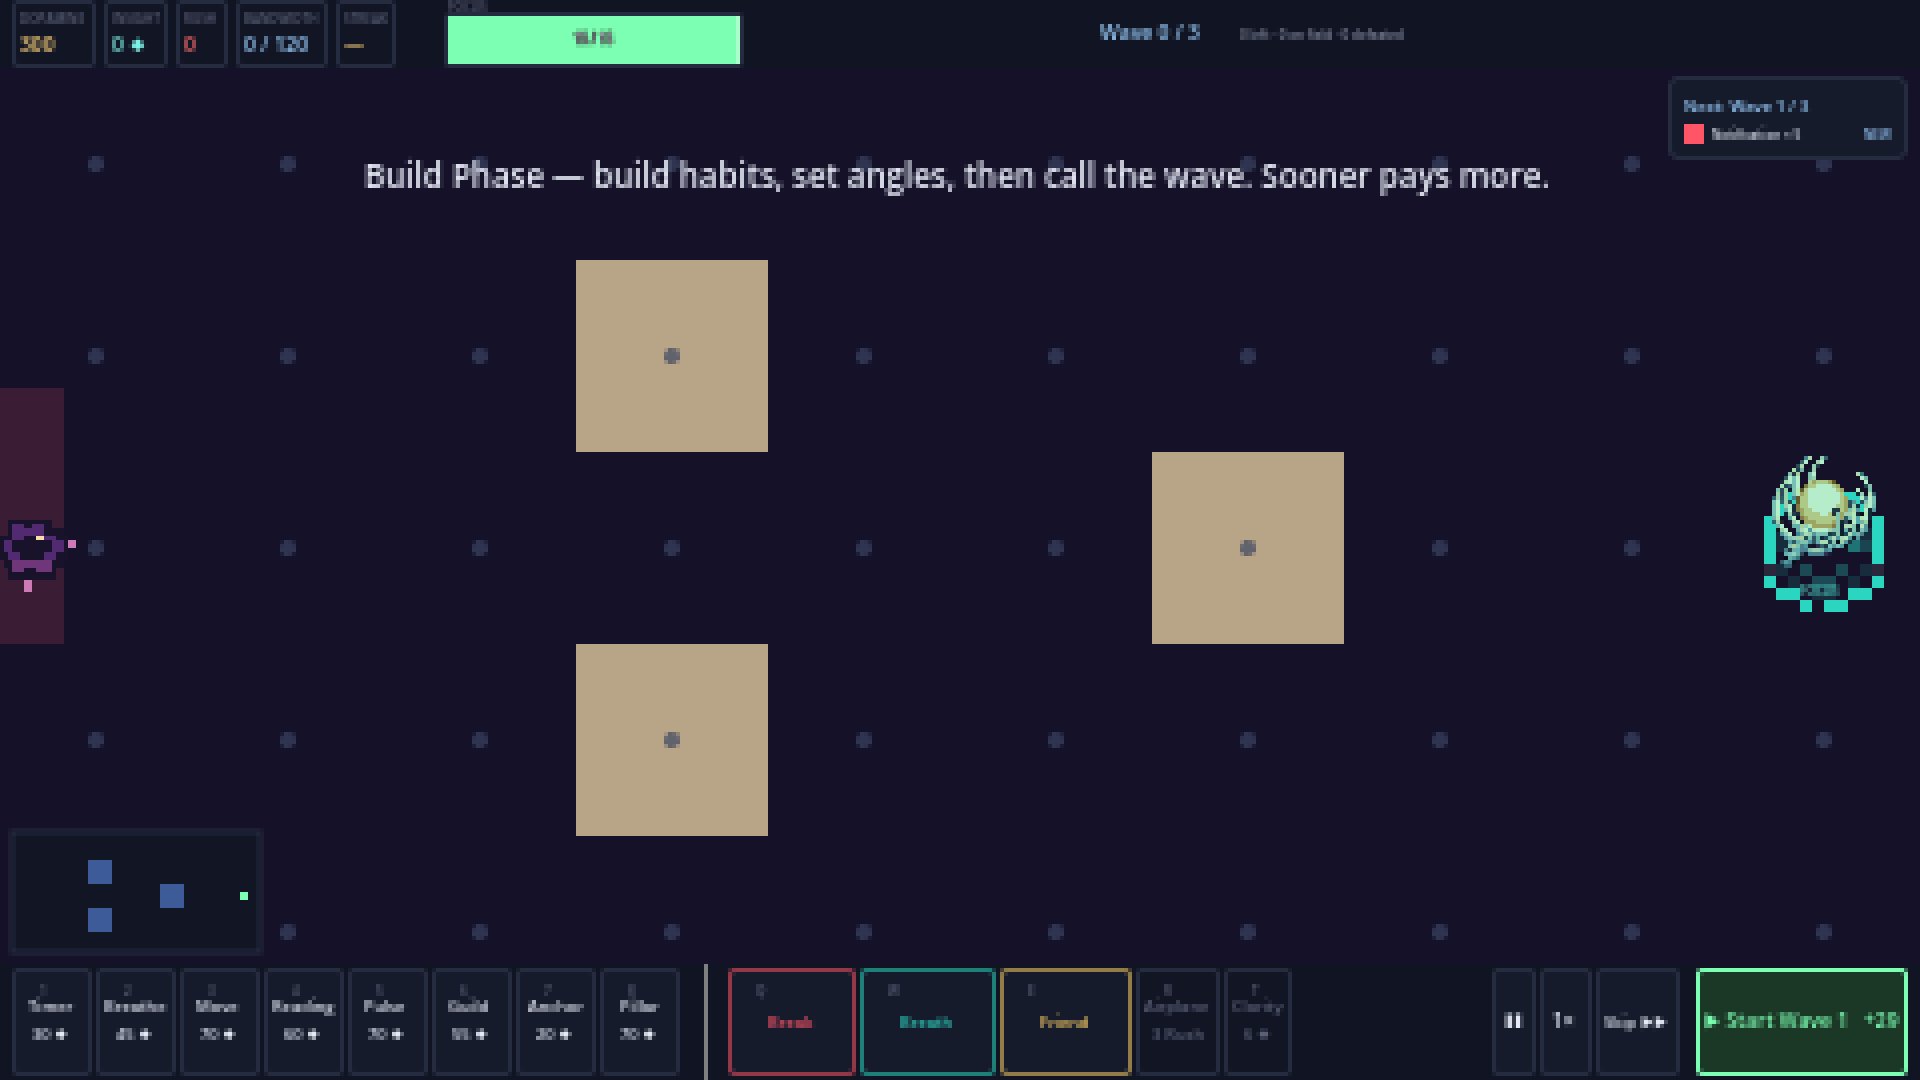
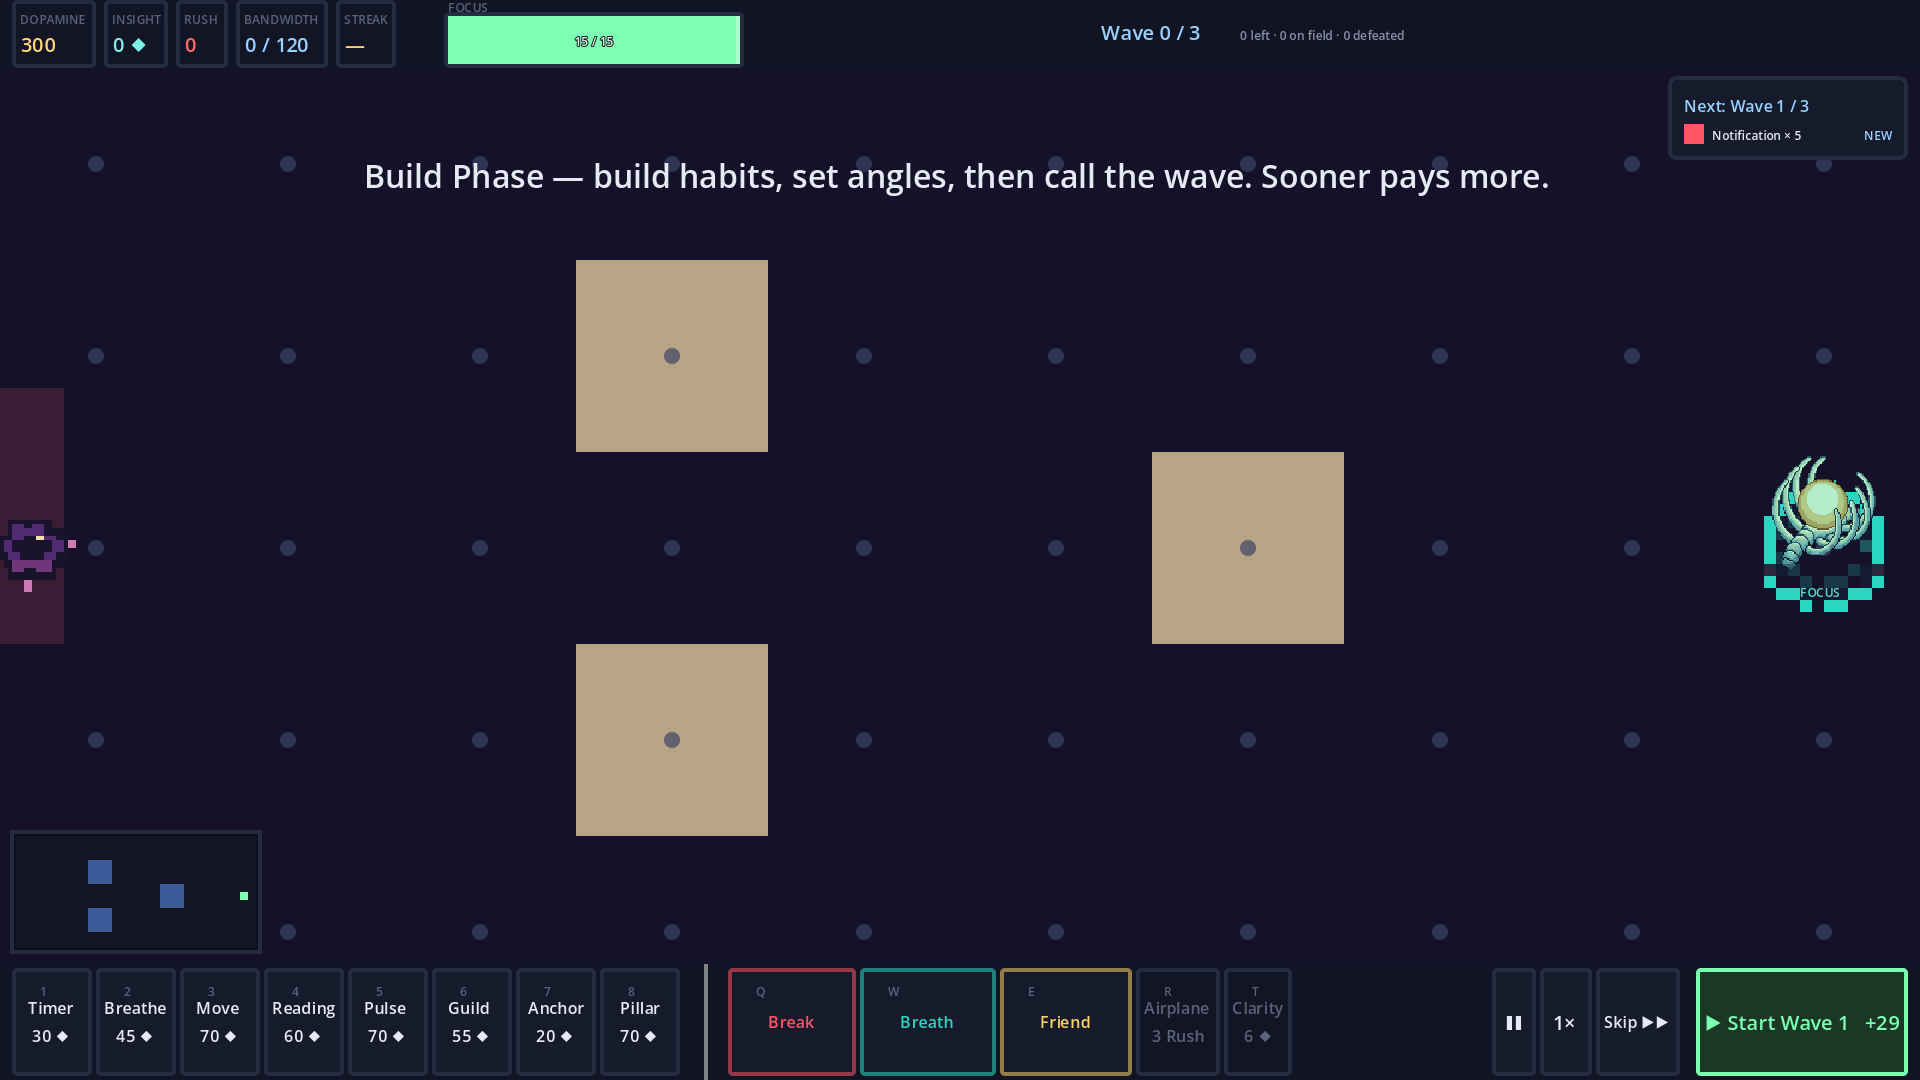
fix(art): enemies overflowed their cells via the glow pool, not the sprite scale
Reported as "the Focus core and distractions are drawn ENORMOUS -- they
overflow the cells they sit on", with the walls and grid measuring correctly,
so not a global scale problem.

MEASURED, by frame diff (render, remove the subject, render again, take the
bounding box of what changed) -- assumption-free, and it sees decoration and
parent transforms that a formula cannot:

              formula said     MEASURED        target
  core        2.10 x 2.10      1.88 x 2.44     2-3    already fine
  notification      1.20       1.72 x 2.09     1-1.5  15% over

The distraction's BODY is 19.2 px = 1.20 tiles, exactly what UNIT_ART_SCALE
promises. The overflow is the type-glow pool painted around it every frame,
and that pool was ONE number living as TWO copies that had already drifted:
horde_renderer.gd's batched quad used `vr * 3.4` while distraction_animator.gd
drew `r * 1.75` (diameter 3.5x), so an enemy changed size the moment it was
blocked and fell out of the batch. Unified into
DistractionAnimator.TYPE_GLOW_DIAMETER_SCALE, valued 2.9 -- derived from the
requested target, not picked. Re-measured after: 1.72 -> 1.47 tiles. Body
untouched. The per-node falloff keeps its exact previous shape (inner ring
still 59.3% of outer); only the outer radius is now derived.

WHY THIS HID FOR SO LONG -- the ruler was blind, and this is the fifth
instance of CLAUDE.md's copied-constant pattern, this time inside the tool
[…]

diff --git a/PROGRESS.md b/PROGRESS.md
@@ -5262,3 +5262,81 @@ na hře). Po opravě prochází.
   4.7.1, který na stroji **neexistuje**. Reálná binárka je
   `Godot_v4.7.2-stable_win64.exe\Godot_v4.7.2-stable_win64_console.exe`. Neopravuji
   sám (CLAUDE.md je ground truth uživatele), jen hlásím.
+
+## 2026-09-05 — Sprity nebyly moc velké. Měřidlo bylo slepé, a přerostl je glow
+
+Uživatel: „Focus core a distrakce se na desce kreslí OBROVSKÉ — přetékají přes buňky.
+Mřížka a zdi mají správnou velikost, takže to NENÍ globální škálování. Změř, nehádej."
+
+### Proč to nešlo přečíst ze `_shot_scale_audit`
+
+Šlo, ale odpověď byla nepravdivá. Harness hlásil `notification -> 19.2 px = 1.20 tiles`,
+tedy přesně cílovou velikost, a přitom měl uživatel pravdu. Důvod: **harness neměří, on
+přepočítává vzorec**, a to jen pro tělo. Načte texturu, vynásobí a vytiskne; framebuffer,
+který si sám ukládá, nikdy nečte. Každou vrstvu kolem těla proto nevidí.
+
+Nezávisle to potvrdily dvě ověřovací agenty proti zdroji: `_shot_scale_audit.gd:163`
+počítá `t.get_size() * pixel_scale * UNIT_ART_SCALE` a nic dalšího, a `:133` mělo
+`raw * pixel_scale * 0.3` s **ručně opsanou** trojkou, protože `CORE_PROP_ART_SCALE`
+byla function-local konstanta uvnitř `_draw()`, na kterou odjinud nešlo ukázat. To je
+pátý výskyt vzorce ze CLAUDE.md „Konstantu neopisuj", tentokrát v nástroji, jehož jediná
+práce je tenhle druh chyby chytat.
+
+### Skutečné měření: frame diff
+
+Jednorázový harness (`_diag_spritebox`, smazán) vykreslil snímek, odstranil subjekt,
+vykreslil znovu a vzal bounding box změněných pixelů. Bez vzorce, tedy bez možnosti
+zdědit něčí omyl; zachytí i rodičovský `Node2D.scale` a jakoukoli dekoraci.
+
+| subjekt | vzorec tvrdil | **změřeno** | cíl uživatele |
+|---|---|---|---|
+| Focus core (celý shluk) | 2.10 × 2.10 | **1.88 × 2.44** | 2–3 ✔ už vyhovuje |
+| distrakce `notification` | 1.20 | **1.72 × 2.09** | 1–1.5 ✘ o 15 % ven |
+
+Tělo distrakce je 19.2 px = 1.20 dlaždice, přesně jak `UNIT_ART_SCALE` slibuje. Přebytek
+nedělá sprite, ale **type-glow pool** — barevná kaluž kreslená kolem těla každý snímek.
+
+### Příčina: jedno číslo ve dvou kopiích, které se už rozešly
+
+- `horde_renderer.gd` (batchovaná cesta, běžný případ): `glow_d = vr * 3.4`
+- `distraction_animator.gd` (per-node cesta): `rad = r * 1.75`, tedy průměr **3.5×**
+
+Táž kaluž, dvě čísla, 3 % rozdíl — nepřítel tedy měnil velikost v okamžiku, kdy ho něco
+zablokovalo a vypadl z dávky. Sjednoceno do `DistractionAnimator.TYPE_GLOW_DIAMETER_SCALE`,
+kterou obě cesty čtou, a hodnota odvozena z cíle uživatele: **2.9**.
+Falloff si per-node cesta drží beze změny tvaru (vnitřní prstenec je pořád 59,3 %
+vnějšího), měněn je jen vnější poloměr.
+
+Výsledek změřen stejným harnessem: **1.72 → 1.47 dlaždice** šířky. Tělo beze změny.
+
+### Co jsem NEzměnil, ačkoli to byla vada
+
+`_draw_body_glow` má `step = maxf(2.0, size.x * 0.06)`. Ta `2.0` je absolutní pixel psaný
+2026-08-15 pro plátno 1920×1080; T5 zmenšilo plátno 29. 8. a `/4`, které dostalo písmo
+i paddingy, se sem nedostalo. Opravil jsem to, **změřil, a zjistil, že to nehne ani
+pixelem** — pool (27.84 px) je širší než to halo tak jako tak. Změnu jsem proto **vrátil**
+a nechal na místě jen poznámku s měřením. Nezměřená vizuální změna nemá co dělat v commitu
+o velikostech.
+
+Stejně tak jádro: `ring_r = base_radius + 7.0` je taky pre-T5 absolutní konstanta
+(úvodní commit 13. 8.). Jádro ale změřeně padne do rozsahu 2–3, který uživatel sám zadal,
+takže by ho zmenšení vystrčilo **pod** cíl. Neměněno, jen vypsáno v auditu jako číslo.
+
+### Oprava měřidla (to hlavní)
+
+- `CORE_PROP_ART_SCALE` povýšena z function-local na class-level konstantu `Game`, takže
+  audit čte `Game.CORE_PROP_ART_SCALE` místo opsané `0.3`.
+- Sekce jednotek hlásí nově `body ... | footprint ...`, kde footprint je odvozený z
+  `DistractionAnimator.TYPE_GLOW_DIAMETER_SCALE`.
+- Sekce jádra hlásí prstenec a nejširší pulz.
+
+Audit teď na témž levelu říká `body 1.20 tiles | footprint 1.74 tiles` místo osamoceného
+a zavádějícího `1.20`.
+
+### Ověření
+
+- `./verify.sh`: **45 pass, 2 fail** (`art colors`, `style failure modes` — obojí
+  `No module named 'numpy'`, prostředí, doloženo jako předchozí už u minulého úkolu).
+  `_test_horde_renderer` prochází s novou konstantou.
+- Snímky před/po (deska i zoom 8×) předány uživateli.
+- **Necommitnuto cizí:** prázdný soubor `git` v rootu, netrackovaný už při startu session.
